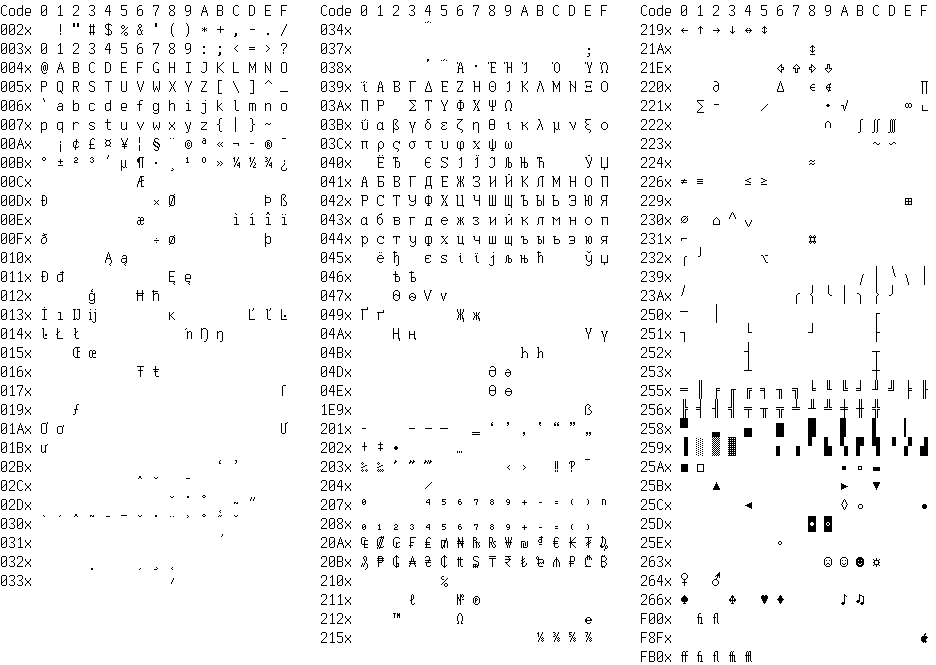
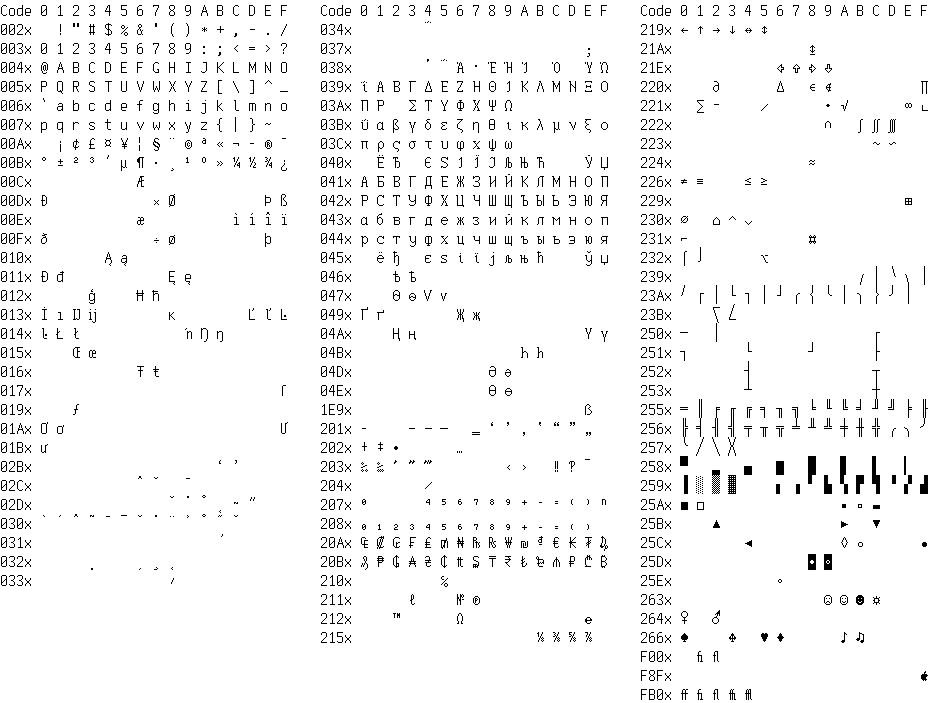
New codepoints

diff --git a/export.js b/export.js
@@ -130,12 +130,12 @@ writeFileSync('./Example.png', getImage([
     '–—―‘’‚“”„†‡•…‰‹›⁄₫€№™Ω∂∆∏∑√∞∫≈≠≤≥◊\uF8FFﬁﬂ½¼¾⅛⅜⅝⅞∕⌐¬≡₣₤₧℅ℓ℮∩∟‗⌀∈∉∼∽',
     '⁰¹²³⁴⁵⁶⁷⁸⁹⁺⁻⁼⁽⁾ⁿ₀₁₂₃₄₅₆₇₈₉₊₋₌₍₎;‾ˉ‽℗ﬀﬁﬂﬃﬄǺǻǼǽǾǿȘșȚțẄẅẀẁẂẃẄẅỲỳẞ',
     '☺☻♥♦♣♠•◘○◙♂♀♪♫☼►◄↕‼¶§▬↨↑↓→←∟↔▲▼$£¥₡₦₩₪₫€₭₮₱₲₴₵₸₹₺₼₽₾₿',
-    '▂▚▆▎▞▊▘▗▝▖     ╔╦╗┌┬┐╒╤╕╓╥╖⎧⎛ ⎞⎫⎫',
-    '⌠□▫○◦▐ ▌▀░░▒▒║│╠╬╣├┼┤╞╪╡╟╫╢⎨⎜ ⎟⎬⎪',
-    '⌡■▪●•∙·▬▄▓▓██═─╚╩╝└┴┘╘╧╛╙╨╜⎩⎝ ⎠⎭⎪',
-    //TODO: '╮╰╯╭╲╱◥▔▁▏▕◤▍▃✓✔✕✖╳⚠ℹ',
+    '▂▚▆▎▞▊▘▗▝▖║│═─╭─╮╔╦╗┌┬┐╒╤╕╓╥╖⎡⎧⎛ ⎞⎫⎤⌠⎧╲N╱',
+    '⌠⎲□▫○◦▐ ▌▀░░▒▒├─┤╠╬╣├┼┤╞╪╡╟╫╢⎢⎨⎜ ⎟⎬⎥⎮⎪W╳E',
+    '⌡⎳■▪●•∙·▬▄▓▓██╰─╯╚╩╝└┴┘╘╧╛╙╨╜⎣⎩⎝ ⎠⎭⎦⌡⎨╱S╲',
+    //TODO: '╱◥▔▁▏▕◤▍▃✓✔✕✖⚠ℹ ⇞⇟🡤🡦⤴⤵⎀⎋␣⌫⌦⇥↩',
     //TODO: Mac OS Symbol/Font X
-    //'∠⊗⊕∅⏐⎯↵ϒ⊥ϖℵℑℜ℘ϑϕ∝∇∴⎷√╲╱⌟≃⎼␤⋅∪⊃⊂∧∨⇔⇐⇑⇒⇓⊇⊄⊆⟨⟩⎲⎳⎡⎣⎤⎦⎢⎮⎥',
+    //'∠⊗⊕∅⏐⎯↵ϒ⊥ϖℵℑℜ℘ϑϕ∝∇∴⎷√╲╱⌟≃⎼␤⋅∪⊃⊂∧∨⇔⇐⇑⇒⇓⊇⊄⊆⟨⟩',
     '"Neutral", \'Neutral\', “English”, ‘English’, „German“, ‚German‘, «French», ‹French›',
     '―――― Em—Dash, En–Dash, z₁=10-x+y²*2π, hy‐phen‐ate, мʼята, oʻzbek, ´acute, ˝double',
     '⇧⌥⌘⊞ ⇦⇧⇨⇩⌃⌄ ƒ′, ƒ″, ¼, ½, ¾″ ÔÖŌÕ ŮÚŰÙ ŠŞŻŽŹ iìíîï ˆ ˇ ˘ ˙ ˚ ˛ ˜ ˝ ̀ ́ ̃ ̉ ̣ ΄ ΅ ·',
